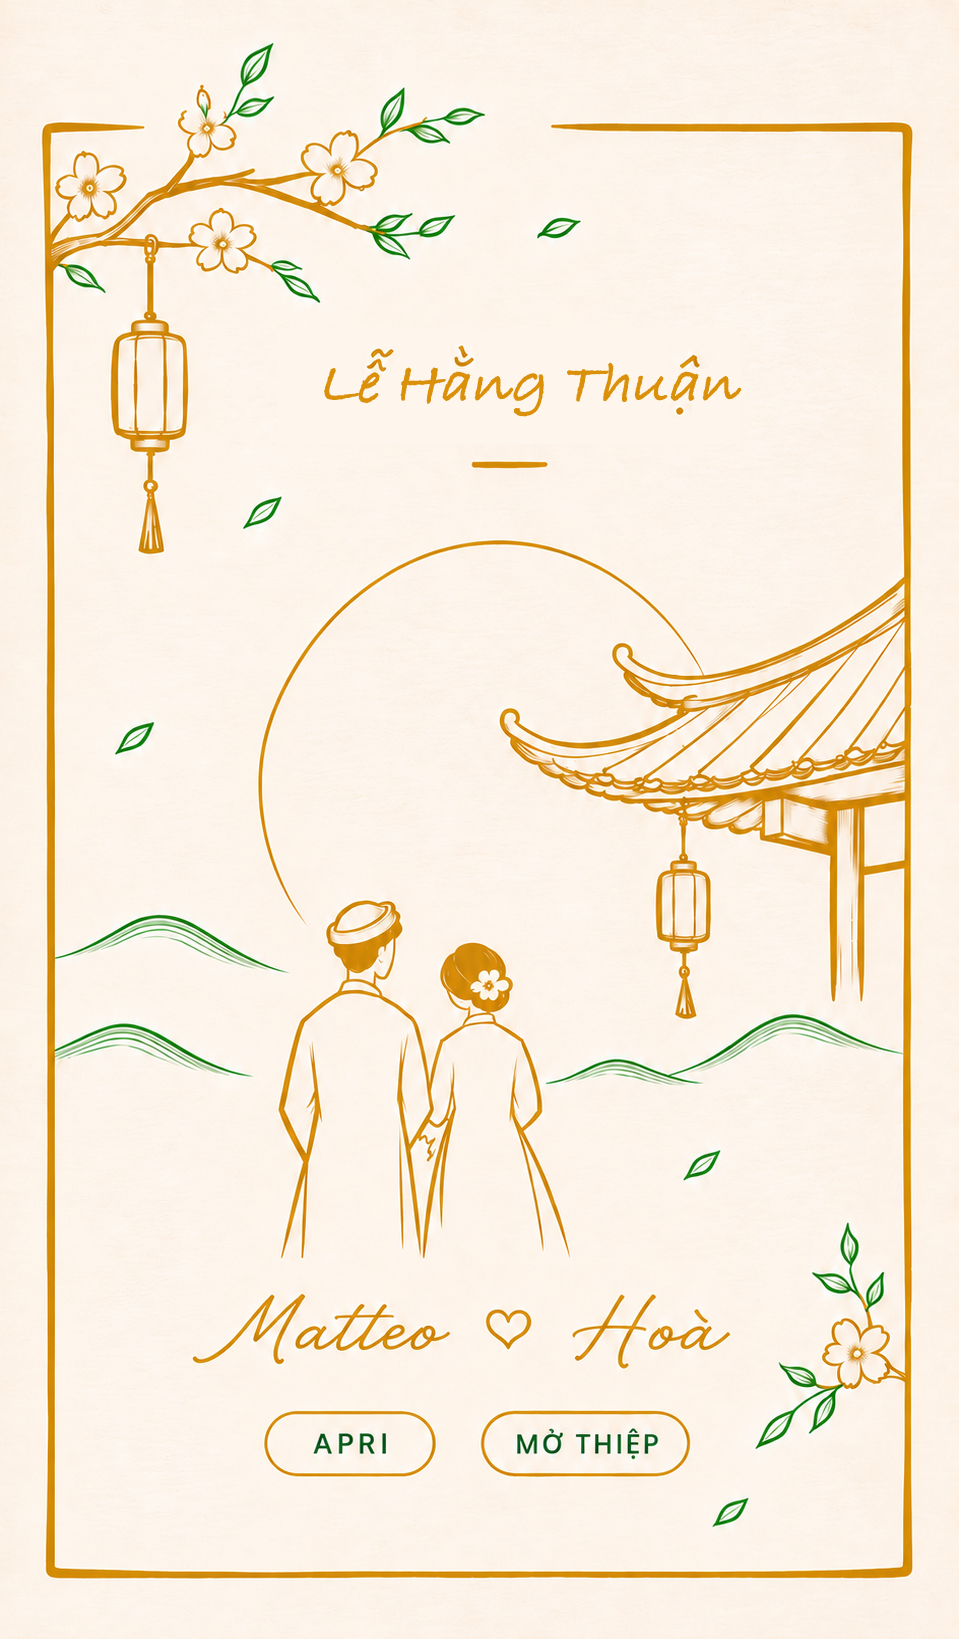
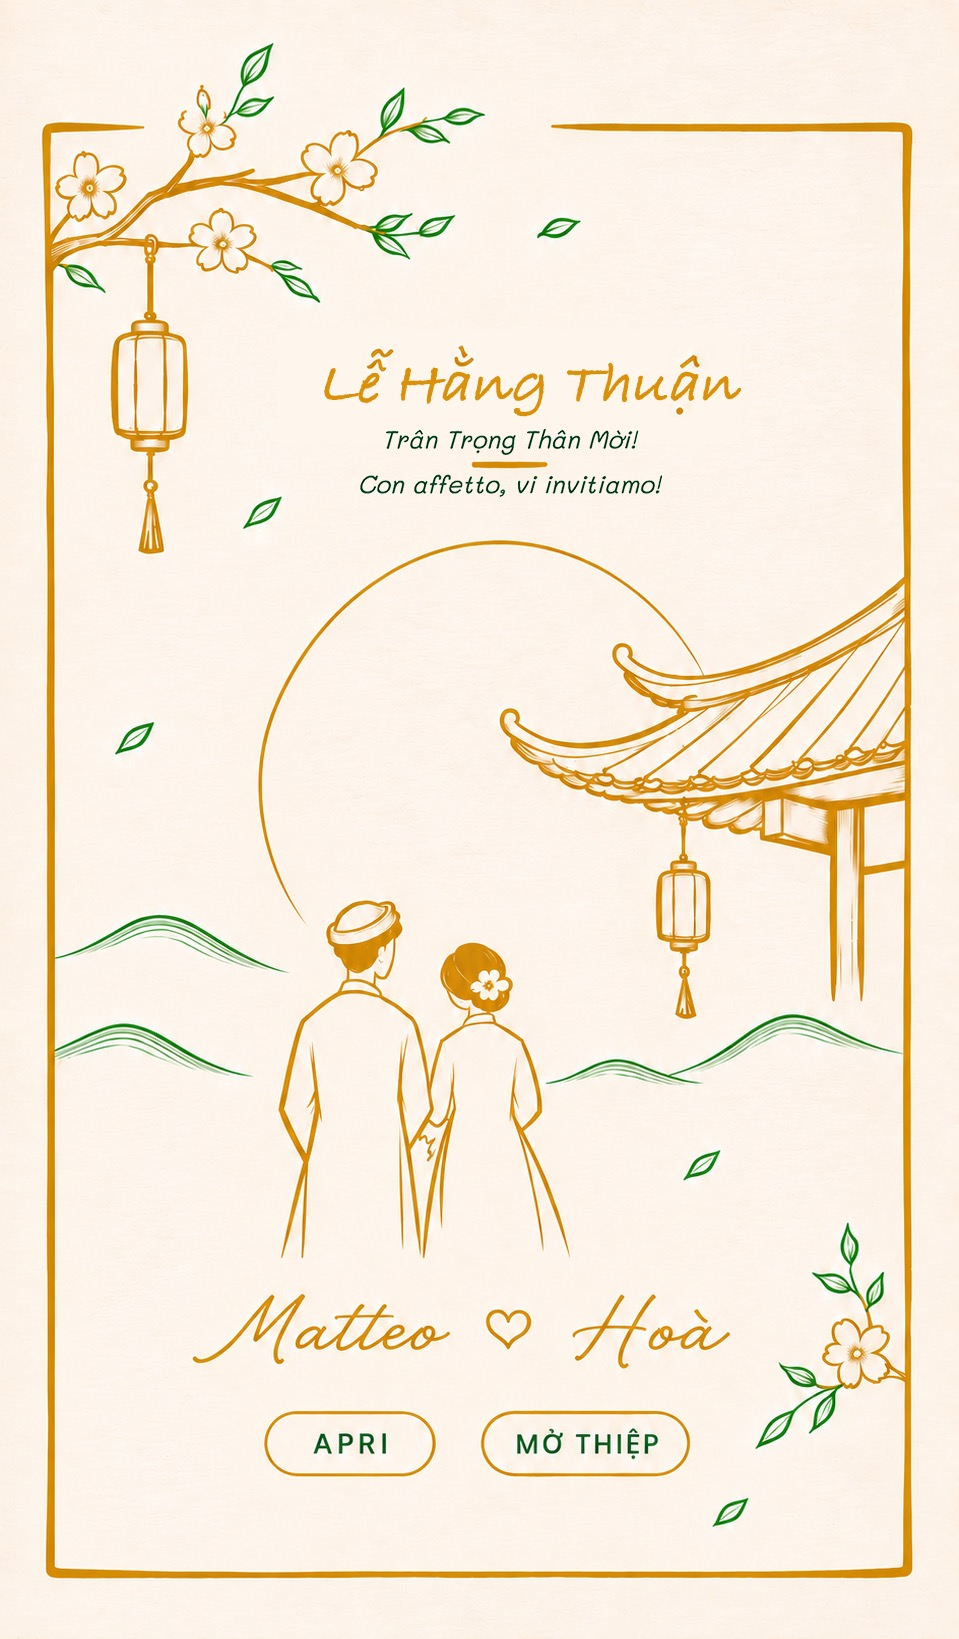
Add files via upload

diff --git a/rsvp_style.css b/rsvp_style.css
@@ -141,7 +141,7 @@ h1, h2, h3, h4, h5, h6 {
     ===================================== */
 
     .cover-action {
-      position: absolute;
+      position: relative;
       top: 87.5%;
       height: 5%;
       padding: 0;
@@ -161,26 +161,6 @@ h1, h2, h3, h4, h5, h6 {
     }
 	
 
-	.cover-invitation-text {
-	  position: absolute;
-	  opacity: 1;
-	  animation: none;
-      transition: none;
-	  top: 25.5%;
-	  left: 0;
-	  width: 110%;
-	  display: flex;
-	  flex-direction: column;
-	  align-items: center;
-	  gap: -2px;
-
-	  color: #05472A;
-	  font-family: var(--font-title);
-	  font-style: italic;
-	  font-size: 10px;
-	  text-align: center;
-	}
-	
 
     /* =====================================
        PAGE 2 — CEREMONY DETAILS
@@ -383,7 +363,7 @@ h1, h2, h3, h4, h5, h6 {
 
     .rsvp-title {
       position: absolute;
-      top: 21.3%;
+      top: 19.8%;
       left: 12%;
       width: 76%;
       margin: 0;

diff --git a/rsvp_index.html b/rsvp_index.html
@@ -28,10 +28,6 @@
 	  <div class="cover-section">
 	    <img src="cover.png" alt="Wedding cover">
 
-
-	   <div class="cover-invitation-text">
-	     <span lang="vi">Trân Trọng Thân Mời!</span>
-	     <span lang="it">Con affetto, vi invitiamo!</span>
 	   </div>
 	   
 	  
